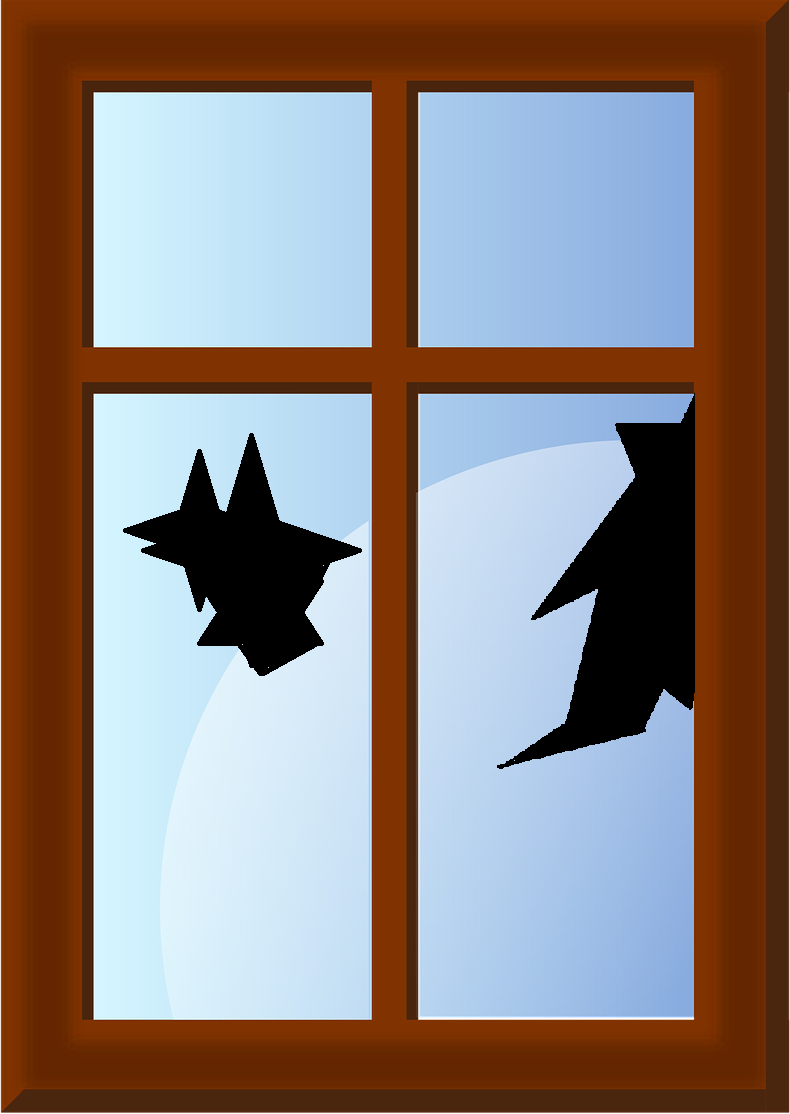
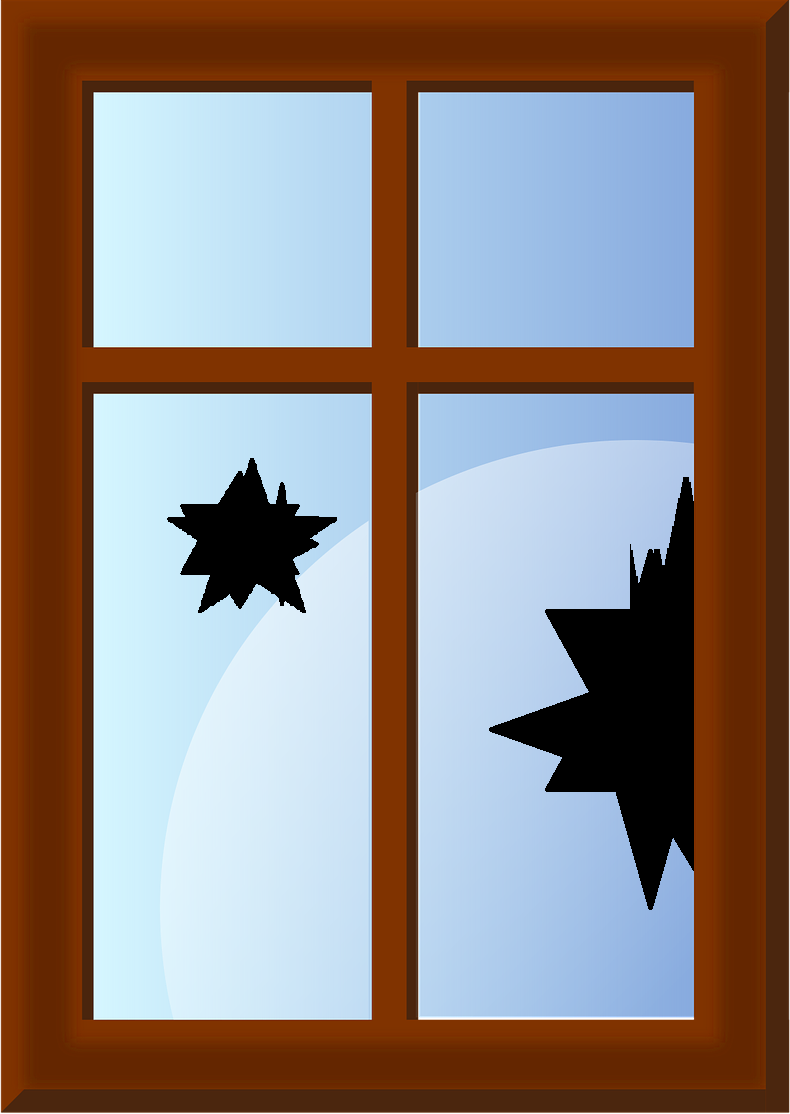
se agregaron imagenes para la animacion de la ventana rota

diff --git a/script.js b/script.js
@@ -305,18 +305,12 @@ function coinPerSecond() {
 
 function updateGlassImage(hit) {
     const glass = document.getElementById('glass');
-    if (clicks <= 10000000) {
-        glass.src = `img/window${hit}.png`;
+    for (let i = 0; i < achievements.length - 21; i++) {
+        if (clicks > achievements[i].conditionDmg) {
+            glass.src = `img/window${i}${hit}.png`;
+            break;
+        }
     }
-    if (clicks <= 9999900) {
-        glass.src = `img/window3${hit}.png`;
-    }
-    if (clicks < 2000000) {
-        glass.src = `img/window3${hit}.png`;
-    }
-    if (clicks === 0) {
-        glass.src = `img/window3${hit}.png`;
-    } 
 }
 
 function buyUpgrade(id) {

diff --git a/index.html b/index.html
@@ -68,7 +68,7 @@
             </div>
 
             <div id="glass-container">
-                <img id="glass" src="img/window.png" alt="Glass" onclick="breakGlass()">
+                <img id="glass" src="img/window0.png" alt="Glass" onclick="breakGlass()">
                 <div id="shards-container"></div>
             </div>
 
